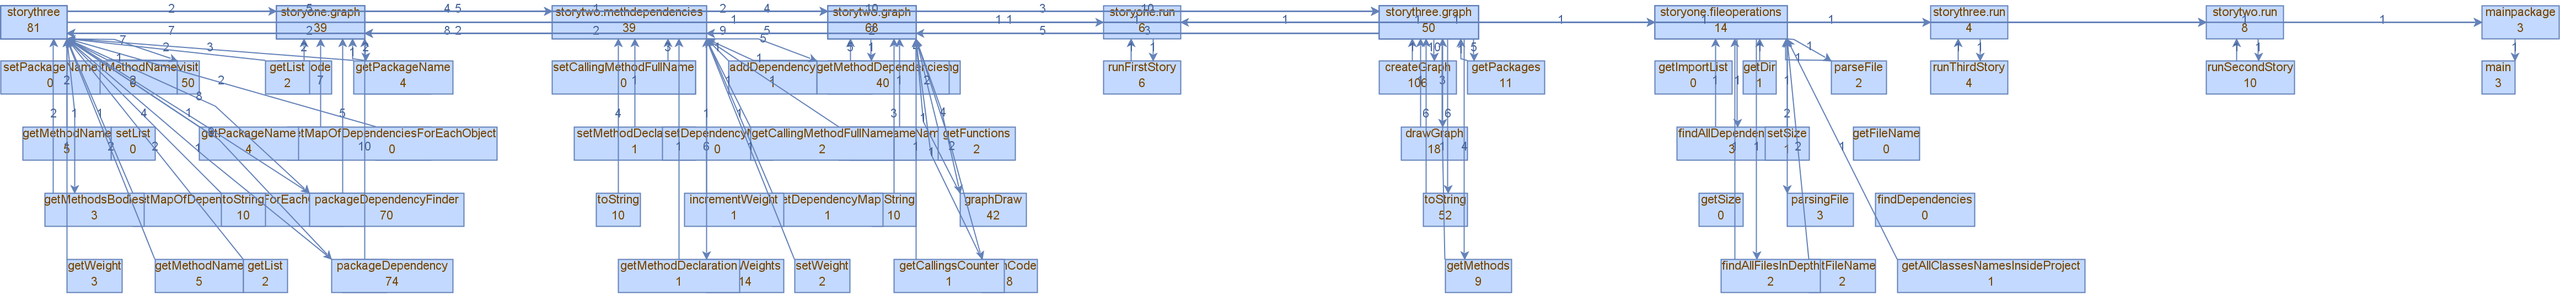
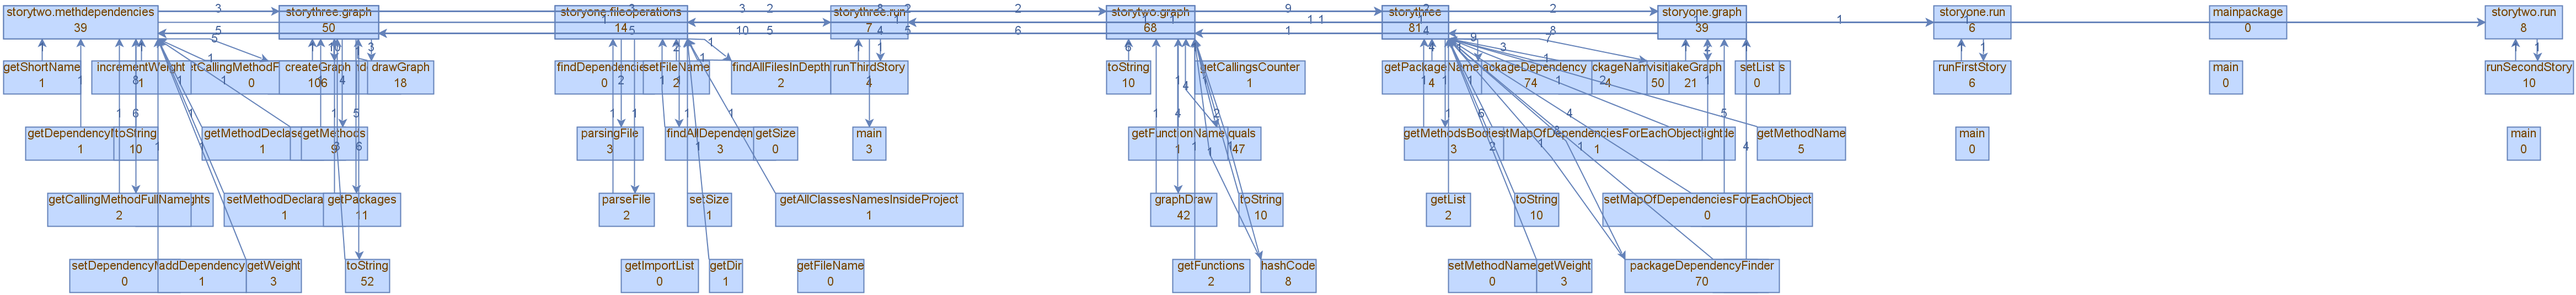
fixed paths

diff --git a/FirstScenarioIO/src/main/java/storythree/run/StoryThree.java b/FirstScenarioIO/src/main/java/storythree/run/StoryThree.java
@@ -25,4 +25,8 @@ public class StoryThree {
         GraphDraw gd=new GraphDraw();
         gd.drawGraph(dependencyObjectList);
     }
+
+    public static void main(String[] args) throws IOException {
+        runThirdStory();
+    }
 }

diff --git a/FirstScenarioIO/src/main/java/storytwo/run/StoryTwo.java b/FirstScenarioIO/src/main/java/storytwo/run/StoryTwo.java
@@ -62,6 +62,7 @@ public class StoryTwo {
         ImageIO.write(img, "PNG", imgFile);
     }
 
-
+    public static void main(String[] args) throws IOException {
+        runSecondStory();
     }
 }

diff --git a/FirstScenarioIO/src/main/java/storyone/run/StoryOne.java b/FirstScenarioIO/src/main/java/storyone/run/StoryOne.java
@@ -77,5 +77,7 @@ public class StoryOne {
       ImageIO.write(img, "PNG", imgFile);
   }
 
-  }
+    public static void main(String[] args) throws IOException {
+        runFirstStory();
+    }
 }
